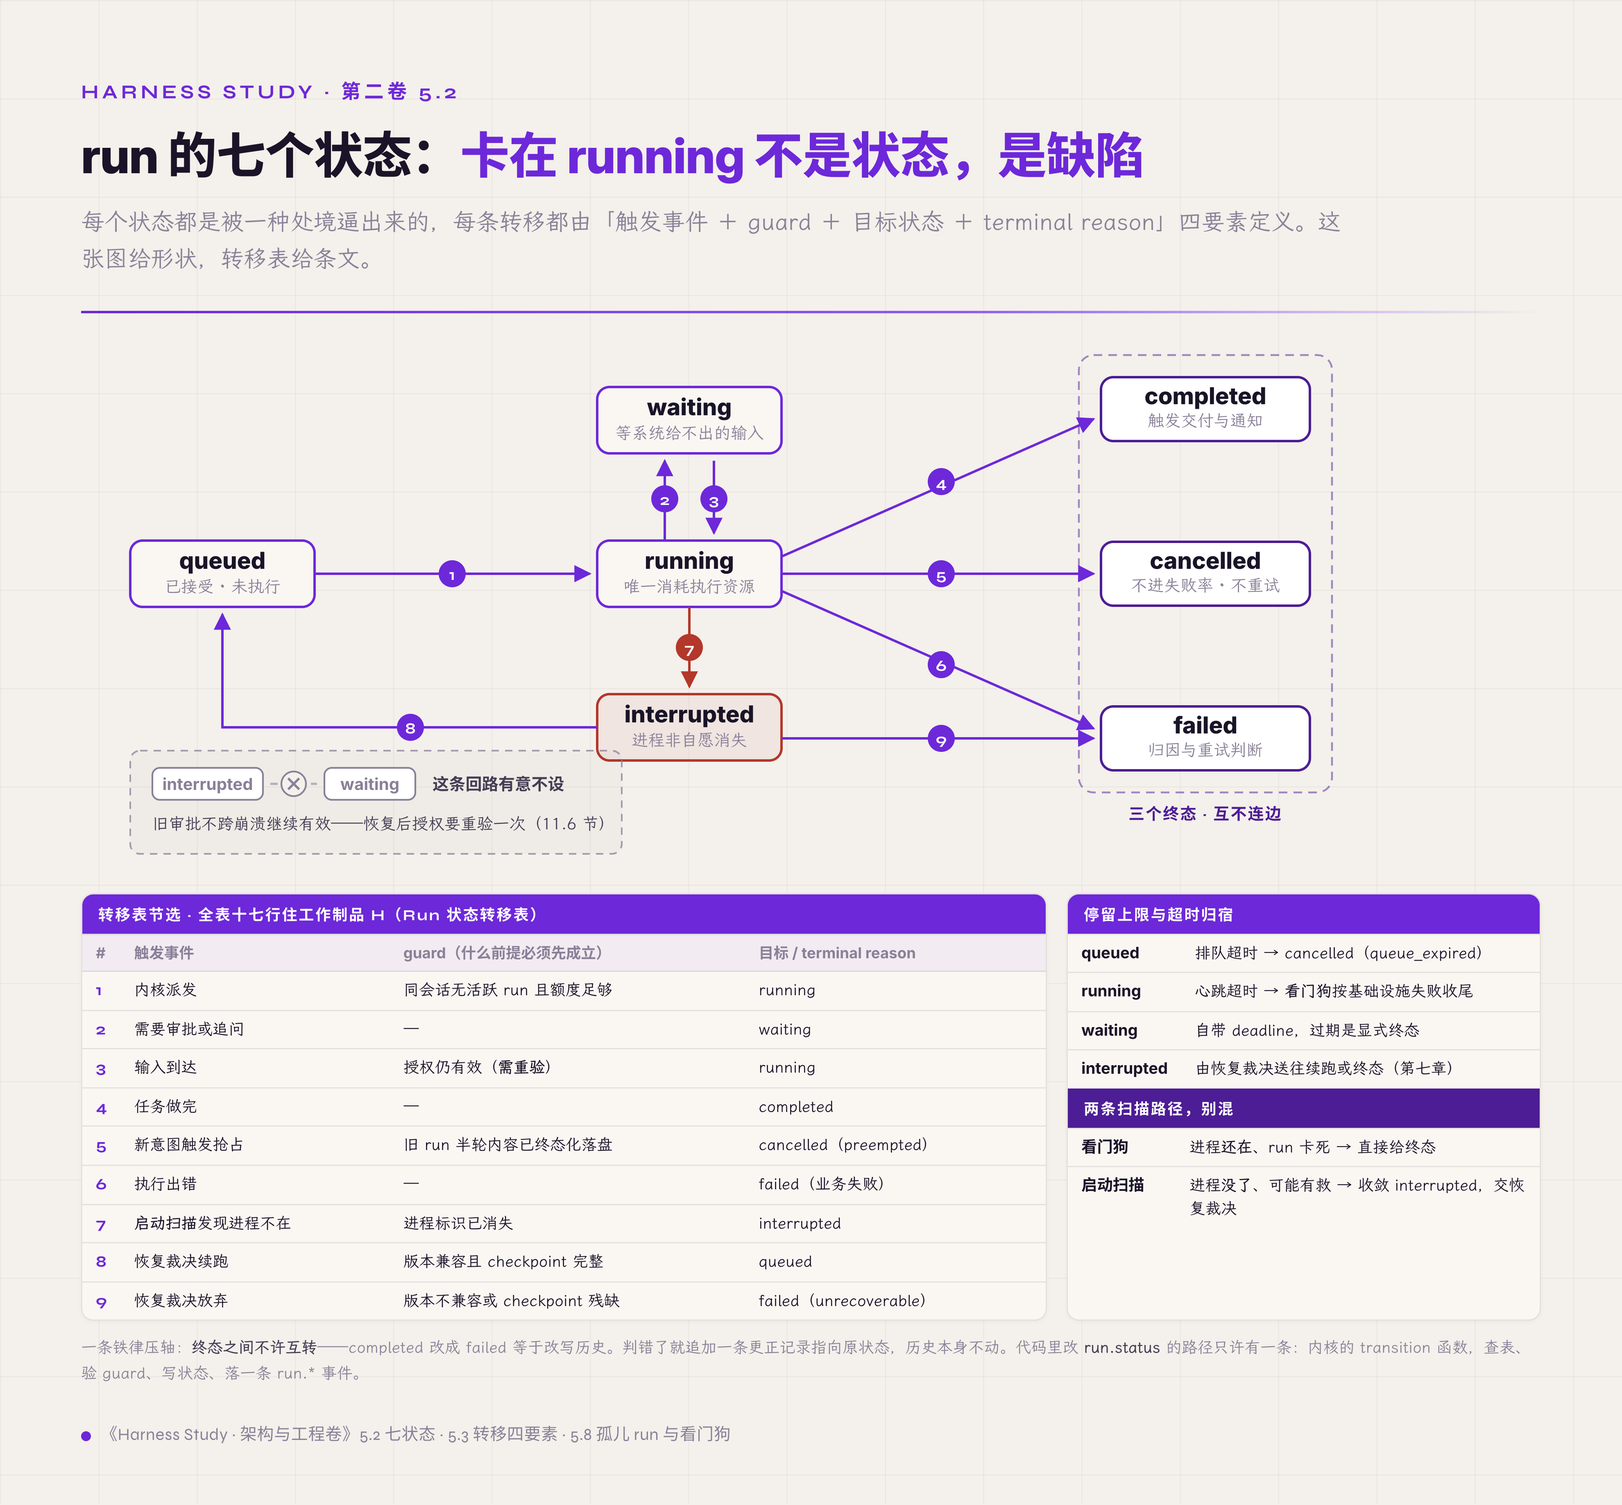
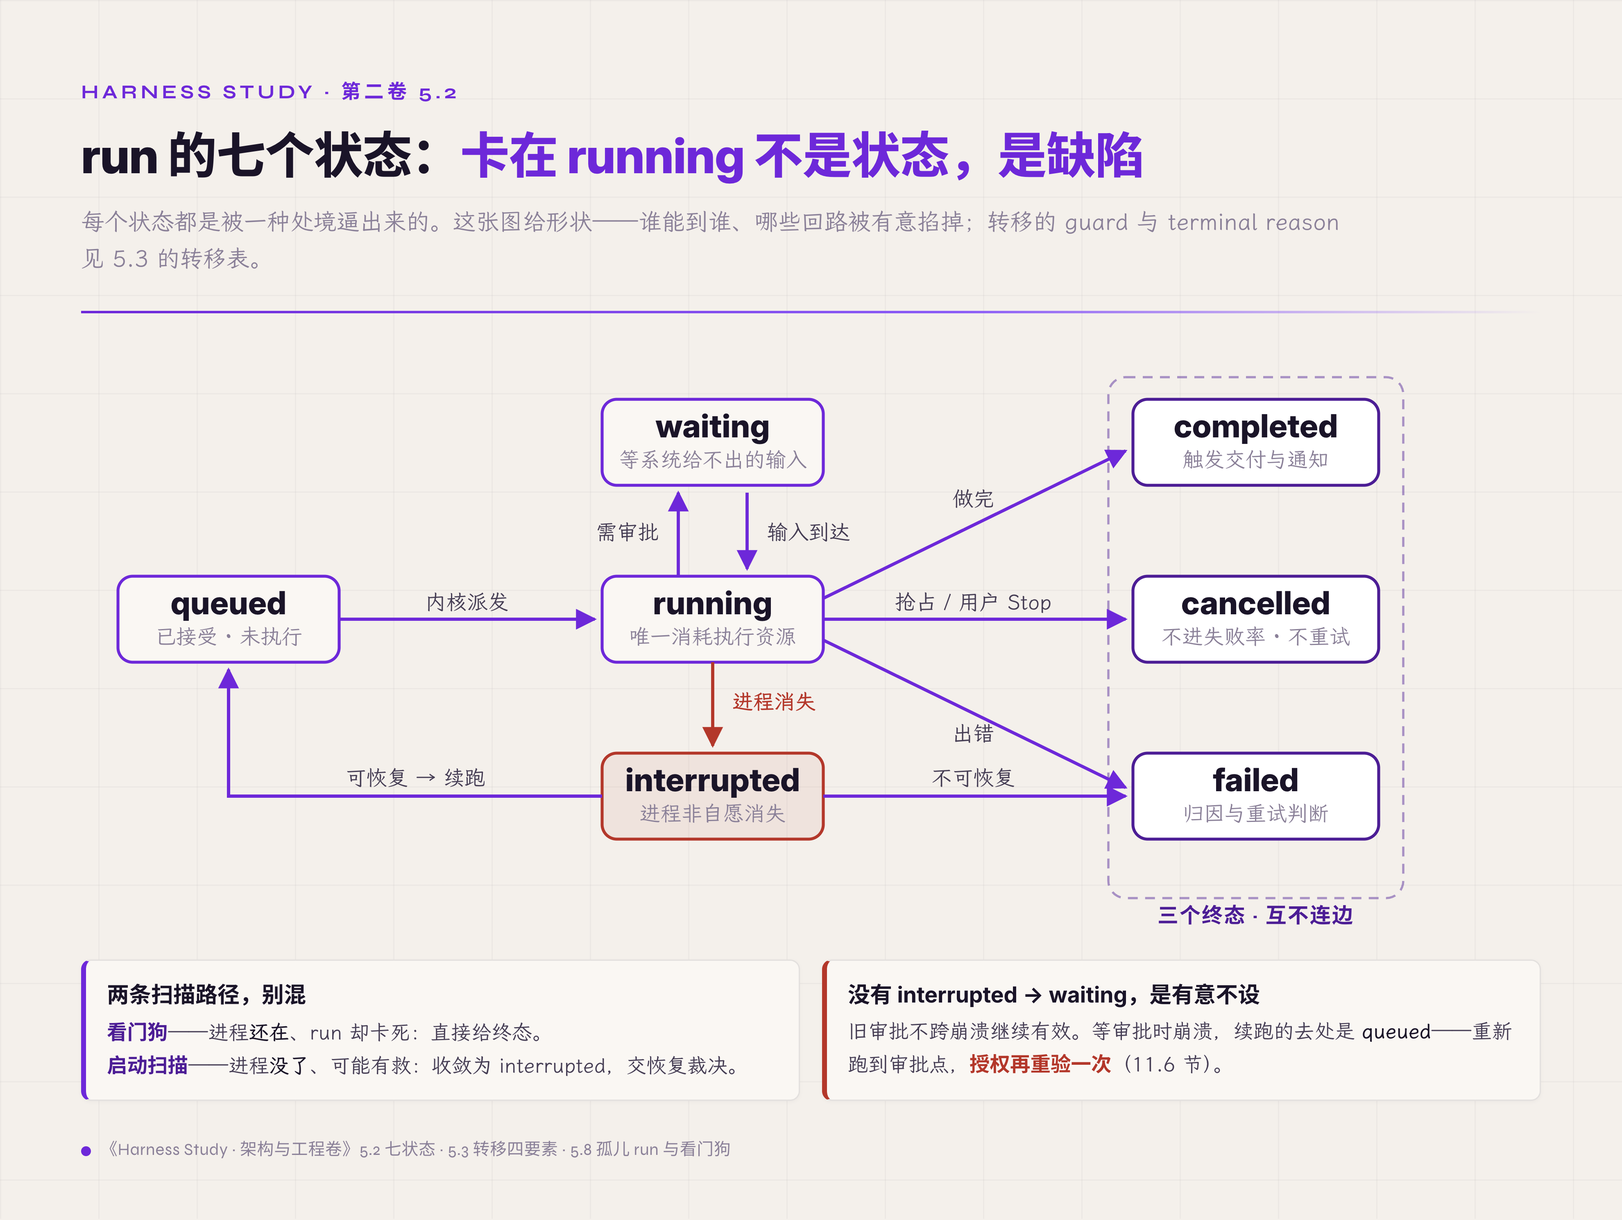
feat(volume2): 第五章接入首张配图，端到端验证配图管线
管线补一处路径重写：正文按 markdown 直读写 figures/…，book.html 生成在
pdf-build/ 下差一层目录，在 make_book.py 里补回。

端到端验证通过：识别 1 图、图目录页自动出现、figures.json 编号与图注正
确、正文 182×137mm 就位、书签 277→278。

重做 5.2 状态机图并立密度基准：第一版做成 1:1、塞了两张图例表，印到
182mm 宽时图例只剩 5pt；且那两张表正文里本来就有（5.2 停留上限表在图正
上方、5.3 转移表节选在下一页），违反「表已经是图的不再画」。改为单一
archetype、宽高比 1.33:1，最小字 6.4pt（入门卷基准 5.8pt）。
换算基准 ×0.391（1320px 铺满 182mm）已写进 figures/README。

diff --git a/volume2/figures/t1-flow-5.2-run-states.html b/volume2/figures/t1-flow-5.2-run-states.html
@@ -1,164 +1,115 @@
 <!DOCTYPE html><html lang="zh-CN"><head><meta charset="UTF-8">
 <link rel="stylesheet" href="_base.css">
 <style>
-  .stage{margin-top:20px}
+  .stage{margin-top:26px}
   svg{display:block;width:100%;height:auto}
-  .nb{fill:var(--card);stroke:var(--purple);stroke-width:2}
-  .nb-term{fill:#fff;stroke:var(--purple-dark);stroke-width:2}
-  .nb-bad{fill:rgba(179,55,42,.06);stroke:var(--red);stroke-width:2}
-  .nt{font-family:var(--f-head);font-size:19px;font-weight:800;fill:var(--t1)}
-  .ns{font-family:var(--f-body);font-size:13.4px;fill:var(--t3)}
-  .ed{stroke:var(--purple);stroke-width:2;fill:none;marker-end:url(#ah)}
-  .ed-b{stroke:var(--red);stroke-width:2;fill:none;marker-end:url(#ahr)}
-  .ed-x{stroke:var(--t3);stroke-width:1.8;fill:none;stroke-dasharray:6 5;opacity:.55}
-  .gb{fill:none;stroke:var(--purple-dark);stroke-width:1.5;stroke-dasharray:7 5;opacity:.5}
-  .gl{font-family:var(--f-label);font-size:13px;font-weight:700;fill:var(--purple-dark);letter-spacing:.08em}
-  .nm{fill:var(--purple)}
-  .nmt{font-family:var(--f-label);font-size:12.6px;font-weight:700;fill:#fff}
-  .cal{fill:rgba(26,20,40,.03);stroke:var(--t3);stroke-width:1.4;stroke-dasharray:6 5;opacity:.75}
-  .calt{font-family:var(--f-body);font-size:13.2px;fill:var(--t2)}
-  .calh{font-family:var(--f-head);font-size:13.4px;font-weight:700;fill:var(--t2)}
+  .nb{fill:var(--card);stroke:var(--purple);stroke-width:2.4}
+  .nb-term{fill:#fff;stroke:var(--purple-dark);stroke-width:2.4}
+  .nb-bad{fill:rgba(179,55,42,.07);stroke:var(--red);stroke-width:2.4}
+  .nt{font-family:var(--f-head);font-size:26px;font-weight:800;fill:var(--t1)}
+  .ns{font-family:var(--f-body);font-size:17px;fill:var(--t3)}
+  .ed{stroke:var(--purple);stroke-width:2.6;fill:none;marker-end:url(#ah)}
+  .ed-b{stroke:var(--red);stroke-width:2.6;fill:none;marker-end:url(#ahr)}
+  .el{font-family:var(--f-body);font-size:17px;fill:var(--t2)}
+  .el-b{font-family:var(--f-body);font-size:17px;fill:var(--red);font-weight:700}
+  .gb{fill:none;stroke:var(--purple-dark);stroke-width:1.8;stroke-dasharray:8 6;opacity:.45}
+  .gl{font-family:var(--f-label);font-size:17px;font-weight:700;fill:var(--purple-dark);letter-spacing:.06em}
 
-  .cols{display:flex;gap:16px;margin-top:20px}
-  .card{flex:1;border:1px solid var(--divider);border-radius:var(--radius);background:var(--card);
-    overflow:hidden;box-shadow:var(--shadow)}
-  .ch{font-family:var(--f-label);font-size:12.4px;font-weight:700;color:#fff;background:var(--purple);
-    letter-spacing:.1em;padding:7px 13px}
-  table{width:100%;border-collapse:collapse;font-size:12.8px}
-  td,th{padding:6px 11px;border-top:1px solid var(--divider);text-align:left;line-height:1.45;vertical-align:top}
-  th{font-family:var(--f-head);font-size:12.2px;font-weight:700;color:var(--t3);background:var(--purple-muted)}
-  td:first-child{font-family:var(--f-label);font-weight:700;color:var(--purple);width:26px}
-  .tw td:first-child{width:88px;font-family:var(--f-head);color:var(--t1)}
-  td b{color:var(--t1)}
-  .note{margin-top:12px;font-size:12.8px;color:var(--t3);line-height:1.6}
-  .note b{color:var(--t2)}
+  .notes{display:flex;gap:18px;margin-top:24px}
+  .nc{flex:1;border:1px solid var(--divider);border-left:4px solid var(--purple);
+    border-radius:8px;background:var(--card);padding:13px 17px;box-shadow:var(--shadow)}
+  .nc.warn{border-left-color:var(--red)}
+  .nc h4{font-family:var(--f-head);font-size:18px;font-weight:700;color:var(--t1);margin-bottom:6px}
+  .nc p{font-family:var(--f-body);font-size:16.5px;color:var(--t2);line-height:1.62}
+  .nc b{color:var(--t1)}
+  .nc .k{font-family:var(--f-head);font-weight:700;color:var(--purple-dark)}
+  .nc.warn .k{color:var(--red)}
 </style></head>
 <body><div class="canvas"><div class="grid-bg"></div><div class="inner">
   <span class="label-type">Harness Study · 第二卷 5.2</span>
   <h1>run 的七个状态：<span class="em">卡在 running 不是状态，是缺陷</span></h1>
-  <div class="sub">每个状态都是被一种处境逼出来的，每条转移都由「触发事件 ＋ guard ＋ 目标状态 ＋ terminal reason」四要素定义。这张图给形状，转移表给条文。</div>
+  <div class="sub">每个状态都是被一种处境逼出来的。这张图给形状——谁能到谁、哪些回路被有意掐掉；转移的 guard 与 terminal reason 见 5.3 的转移表。</div>
   <hr class="rule">
 
   <div class="stage">
-  <svg viewBox="0 0 1188 432" xmlns="http://www.w3.org/2000/svg">
+  <svg viewBox="0 0 1188 476" xmlns="http://www.w3.org/2000/svg">
     <defs>
-      <marker id="ah" viewBox="0 0 10 10" refX="9" refY="5" markerWidth="7" markerHeight="7" orient="auto-start-reverse">
+      <marker id="ah" viewBox="0 0 10 10" refX="9" refY="5" markerWidth="6.5" markerHeight="6.5" orient="auto-start-reverse">
         <path d="M0,0 L10,5 L0,10 z" fill="#6d28d9"/></marker>
-      <marker id="ahr" viewBox="0 0 10 10" refX="9" refY="5" markerWidth="7" markerHeight="7" orient="auto-start-reverse">
+      <marker id="ahr" viewBox="0 0 10 10" refX="9" refY="5" markerWidth="6.5" markerHeight="6.5" orient="auto-start-reverse">
         <path d="M0,0 L10,5 L0,10 z" fill="#b3372a"/></marker>
     </defs>
 
-    <!-- 终态组框 -->
-    <rect class="gb" x="812" y="14" width="206" height="356" rx="12"/>
-    <text class="gl" x="915" y="392" text-anchor="middle">三个终态 · 互不连边</text>
+    <rect class="gb" x="836" y="26" width="240" height="424" rx="14"/>
+    <text class="gl" x="956" y="470" text-anchor="middle">三个终态 · 互不连边</text>
 
     <!-- 节点 -->
-    <g><rect class="nb" x="40" y="165" width="150" height="54" rx="10"/>
-      <text class="nt" x="115" y="188" text-anchor="middle">queued</text>
-      <text class="ns" x="115" y="207" text-anchor="middle">已接受 · 未执行</text></g>
+    <g><rect class="nb" x="30" y="188" width="180" height="70" rx="12"/>
+      <text class="nt" x="120" y="219" text-anchor="middle">queued</text>
+      <text class="ns" x="120" y="243" text-anchor="middle">已接受 · 未执行</text></g>
 
-    <g><rect class="nb" x="420" y="40" width="150" height="54" rx="10"/>
-      <text class="nt" x="495" y="63" text-anchor="middle">waiting</text>
-      <text class="ns" x="495" y="82" text-anchor="middle">等系统给不出的输入</text></g>
+    <g><rect class="nb" x="424" y="44" width="180" height="70" rx="12"/>
+      <text class="nt" x="514" y="75" text-anchor="middle">waiting</text>
+      <text class="ns" x="514" y="99" text-anchor="middle">等系统给不出的输入</text></g>
 
-    <g><rect class="nb" x="420" y="165" width="150" height="54" rx="10"/>
-      <text class="nt" x="495" y="188" text-anchor="middle">running</text>
-      <text class="ns" x="495" y="207" text-anchor="middle">唯一消耗执行资源</text></g>
+    <g><rect class="nb" x="424" y="188" width="180" height="70" rx="12"/>
+      <text class="nt" x="514" y="219" text-anchor="middle">running</text>
+      <text class="ns" x="514" y="243" text-anchor="middle">唯一消耗执行资源</text></g>
 
-    <g><rect class="nb-bad" x="420" y="290" width="150" height="54" rx="10"/>
-      <text class="nt" x="495" y="313" text-anchor="middle" fill="#b3372a">interrupted</text>
-      <text class="ns" x="495" y="332" text-anchor="middle">进程非自愿消失</text></g>
+    <g><rect class="nb-bad" x="424" y="332" width="180" height="70" rx="12"/>
+      <text class="nt" x="514" y="363" text-anchor="middle" fill="#b3372a">interrupted</text>
+      <text class="ns" x="514" y="387" text-anchor="middle">进程非自愿消失</text></g>
 
-    <g><rect class="nb-term" x="830" y="32" width="170" height="52" rx="10"/>
-      <text class="nt" x="915" y="54" text-anchor="middle">completed</text>
-      <text class="ns" x="915" y="72" text-anchor="middle">触发交付与通知</text></g>
+    <g><rect class="nb-term" x="856" y="44" width="200" height="70" rx="12"/>
+      <text class="nt" x="956" y="75" text-anchor="middle">completed</text>
+      <text class="ns" x="956" y="99" text-anchor="middle">触发交付与通知</text></g>
 
-    <g><rect class="nb-term" x="830" y="166" width="170" height="52" rx="10"/>
-      <text class="nt" x="915" y="188" text-anchor="middle">cancelled</text>
-      <text class="ns" x="915" y="206" text-anchor="middle">不进失败率 · 不重试</text></g>
+    <g><rect class="nb-term" x="856" y="188" width="200" height="70" rx="12"/>
+      <text class="nt" x="956" y="219" text-anchor="middle">cancelled</text>
+      <text class="ns" x="956" y="243" text-anchor="middle">不进失败率 · 不重试</text></g>
 
-    <g><rect class="nb-term" x="830" y="300" width="170" height="52" rx="10"/>
-      <text class="nt" x="915" y="322" text-anchor="middle">failed</text>
-      <text class="ns" x="915" y="340" text-anchor="middle">归因与重试判断</text></g>
+    <g><rect class="nb-term" x="856" y="332" width="200" height="70" rx="12"/>
+      <text class="nt" x="956" y="363" text-anchor="middle">failed</text>
+      <text class="ns" x="956" y="387" text-anchor="middle">归因与重试判断</text></g>
 
-    <!-- 转移边 -->
-    <path class="ed" d="M190,192 L414,192"/>
-    <path class="ed" d="M475,165 L475,100"/>
-    <path class="ed" d="M515,100 L515,159"/>
-    <path class="ed" d="M570,178 L824,66"/>
-    <path class="ed" d="M570,192 L824,192"/>
-    <path class="ed" d="M570,206 L824,318"/>
-    <path class="ed-b" d="M495,219 L495,284"/>
-    <path class="ed" d="M420,317 L115,317 L115,225"/>
-    <path class="ed" d="M570,326 L824,326"/>
+    <!-- 边 -->
+    <path class="ed" d="M210,223 L418,223"/>
+    <text class="el" x="314" y="215" text-anchor="middle">内核派发</text>
 
-    <!-- 边号 -->
-    <g><circle class="nm" cx="302" cy="192" r="11"/><text class="nmt" x="302" y="197" text-anchor="middle">1</text></g>
-    <g><circle class="nm" cx="475" cy="131" r="11"/><text class="nmt" x="475" y="136" text-anchor="middle">2</text></g>
-    <g><circle class="nm" cx="515" cy="131" r="11"/><text class="nmt" x="515" y="136" text-anchor="middle">3</text></g>
-    <g><circle class="nm" cx="700" cy="117" r="11"/><text class="nmt" x="700" y="122" text-anchor="middle">4</text></g>
-    <g><circle class="nm" cx="700" cy="192" r="11"/><text class="nmt" x="700" y="197" text-anchor="middle">5</text></g>
-    <g><circle class="nm" cx="700" cy="266" r="11"/><text class="nmt" x="700" y="271" text-anchor="middle">6</text></g>
-    <g><circle cx="495" cy="252" r="11" fill="#b3372a"/><text class="nmt" x="495" y="257" text-anchor="middle">7</text></g>
-    <g><circle class="nm" cx="268" cy="317" r="11"/><text class="nmt" x="268" y="322" text-anchor="middle">8</text></g>
-    <g><circle class="nm" cx="700" cy="326" r="11"/><text class="nmt" x="700" y="331" text-anchor="middle">9</text></g>
+    <path class="ed" d="M486,188 L486,120"/>
+    <text class="el" x="470" y="158" text-anchor="end">需审批</text>
+    <path class="ed" d="M542,120 L542,182"/>
+    <text class="el" x="558" y="158">输入到达</text>
 
-    <!-- 有意不设 callout（含自足小示意，不画进主图以免与边 1 交叠） -->
-    <rect class="cal" x="40" y="336" width="400" height="84" rx="8"/>
-    <g>
-      <rect x="58" y="350" width="90" height="26" rx="6" fill="#fff" stroke="#8a8098" stroke-width="1.4"/>
-      <text x="103" y="368" text-anchor="middle" font-family="Inter,sans-serif" font-size="13.4" font-weight="700" fill="#8a8098">interrupted</text>
-      <path class="ed-x" d="M154,363 L192,363"/>
-      <circle cx="173" cy="363" r="10" fill="#f4f0eb" stroke="#8a8098" stroke-width="1.4"/>
-      <path d="M168.5,358.5 L177.5,367.5 M177.5,358.5 L168.5,367.5" stroke="#8a8098" stroke-width="1.8"/>
-      <rect x="198" y="350" width="74" height="26" rx="6" fill="#fff" stroke="#8a8098" stroke-width="1.4"/>
-      <text x="235" y="368" text-anchor="middle" font-family="Inter,sans-serif" font-size="13.4" font-weight="700" fill="#8a8098">waiting</text>
-      <text class="calh" x="286" y="368">这条回路有意不设</text>
-    </g>
-    <text class="calt" x="58" y="400">旧审批不跨崩溃继续有效——恢复后授权要重验一次（11.6 节）</text>
+    <path class="ed" d="M604,206 L850,86"/>
+    <text class="el" x="726" y="131" text-anchor="middle">做完</text>
+    <path class="ed" d="M604,223 L850,223"/>
+    <text class="el" x="726" y="215" text-anchor="middle">抢占 / 用户 Stop</text>
+    <path class="ed" d="M604,240 L850,360"/>
+    <text class="el" x="726" y="322" text-anchor="middle">出错</text>
+
+    <path class="ed-b" d="M514,258 L514,326"/>
+    <text class="el-b" x="530" y="296">进程消失</text>
+
+    <path class="ed" d="M424,367 L120,367 L120,264"/>
+    <text class="el" x="272" y="358" text-anchor="middle">可恢复 → 续跑</text>
+
+    <path class="ed" d="M604,367 L850,367"/>
+    <text class="el" x="726" y="358" text-anchor="middle">不可恢复</text>
   </svg>
   </div>
 
-  <div class="cols">
-    <div class="card">
-      <div class="ch">转移表节选 · 全表十七行住工作制品 H（Run 状态转移表）</div>
-      <table>
-        <thead><tr><th>#</th><th>触发事件</th><th>guard（什么前提必须先成立）</th><th>目标 / terminal reason</th></tr></thead>
-        <tbody>
-          <tr><td>1</td><td>内核派发</td><td>同会话无活跃 run 且额度足够</td><td>running</td></tr>
-          <tr><td>2</td><td>需要审批或追问</td><td>—</td><td>waiting</td></tr>
-          <tr><td>3</td><td>输入到达</td><td>授权仍有效（<b>需重验</b>）</td><td>running</td></tr>
-          <tr><td>4</td><td>任务做完</td><td>—</td><td>completed</td></tr>
-          <tr><td>5</td><td>新意图触发抢占</td><td>旧 run 半轮内容已终态化落盘</td><td>cancelled（preempted）</td></tr>
-          <tr><td>6</td><td>执行出错</td><td>—</td><td>failed（业务失败）</td></tr>
-          <tr><td>7</td><td><b>启动扫描</b>发现进程不在</td><td>进程标识已消失</td><td>interrupted</td></tr>
-          <tr><td>8</td><td>恢复裁决续跑</td><td>版本兼容且 checkpoint 完整</td><td>queued</td></tr>
-          <tr><td>9</td><td>恢复裁决放弃</td><td>版本不兼容或 checkpoint 残缺</td><td>failed（unrecoverable）</td></tr>
-        </tbody>
-      </table>
+  <div class="notes">
+    <div class="nc">
+      <h4>两条扫描路径，别混</h4>
+      <p><span class="k">看门狗</span>——进程<b>还在</b>、run 却卡死：直接给终态。<br>
+         <span class="k">启动扫描</span>——进程<b>没了</b>、可能有救：收敛为 interrupted，交恢复裁决。</p>
     </div>
-
-    <div class="card" style="flex:0 0 386px">
-      <div class="ch">停留上限与超时归宿</div>
-      <table class="tw">
-        <tbody>
-          <tr><td>queued</td><td>排队超时 → cancelled（queue_expired）</td></tr>
-          <tr><td>running</td><td>心跳超时 → <b>看门狗</b>按基础设施失败收尾</td></tr>
-          <tr><td>waiting</td><td>自带 deadline，过期是显式终态</td></tr>
-          <tr><td>interrupted</td><td>由恢复裁决送往续跑或终态（第七章）</td></tr>
-        </tbody>
-      </table>
-      <div class="ch" style="background:var(--purple-dark)">两条扫描路径，别混</div>
-      <table class="tw">
-        <tbody>
-          <tr><td>看门狗</td><td>进程<b>还在</b>、run 卡死 → 直接给终态</td></tr>
-          <tr><td>启动扫描</td><td>进程<b>没了</b>、可能有救 → 收敛 interrupted，交恢复裁决</td></tr>
-        </tbody>
-      </table>
+    <div class="nc warn">
+      <h4>没有 interrupted → waiting，是有意不设</h4>
+      <p>旧审批不跨崩溃继续有效。等审批时崩溃，续跑的去处是 <b>queued</b>——重新跑到审批点，<span class="k">授权再重验一次</span>（11.6 节）。</p>
     </div>
   </div>
-
-  <div class="note">一条铁律压轴：<b>终态之间不许互转</b>——completed 改成 failed 等于改写历史。判错了就追加一条更正记录指向原状态，历史本身不动。代码里改 <b>run.status</b> 的路径只许有一条：内核的 transition 函数，查表、验 guard、写状态、落一条 run.* 事件。</div>
 
   <div class="foot">
     <div><span class="dot"></span>《Harness Study · 架构与工程卷》5.2 七状态 · 5.3 转移四要素 · 5.8 孤儿 run 与看门狗</div>

diff --git a/volume2/pdf-build/make_book.py b/volume2/pdf-build/make_book.py
@@ -139,7 +139,9 @@ for i, f in enumerate(files, 1):
         input=md, capture_output=True, text=True, encoding="utf-8", cwd=str(SRC))
     if r.returncode != 0:
         sys.stderr.write(f"[pandoc fail] {f.name}: {r.stderr[:300]}\n"); sys.exit(1)
-    body = FIG_RE.sub(fig_sub, r.stdout)
+    # 正文按 markdown 直读的相对路径写图（figures/…），而 book.html 生成在 pdf-build/ 下，
+    # 差一层目录——在这里补回来。
+    body = FIG_RE.sub(fig_sub, r.stdout.replace('src="figures/', 'src="../figures/'))
     frags.append(f'<section id="ch{i}" class="chapter">{body}</section>')
     pg = str(pages[i - 1]) if pages and i - 1 < len(pages) else ""
     toc.append(f'<li><a href="#ch{i}"><span class="ti">{html.escape(toc_title(title))}</span>'

diff --git a/volume2/figures/README.md b/volume2/figures/README.md
@@ -34,7 +34,13 @@ cp t1-flow-5.2-run-states.html t1-<型>-<节>-<slug>.html
 
 ## 硬约束
 
-- **成品有效宽度上限 182mm**（A4 版心）。超宽会触发 Chromium 打印缩放、把整本书等比缩小——第二卷已因宽表踩过一次（正文 14pt 被渲成 9.3pt）。按 1320px 画布出图，印刷宽定 182mm，高度换算：`高(mm) = 图高px / 图宽px × 182`。三张样板分别是 136mm ／ 169mm ／ 168mm，单页放得下。
+- **成品有效宽度上限 182mm**（A4 版心）。超宽会触发 Chromium 打印缩放、把整本书等比缩小——第二卷已因宽表踩过一次（正文 14pt 被渲成 9.3pt）。按 1320px 画布出图，印刷宽定 182mm，高度换算：`高(mm) = 图高px / 图宽px × 182`。
+
+- **画布 px → 印刷 pt 的换算是 ×0.391**（1320px 铺满 182mm）。所以图里 16px 的字，印出来只有 6.3pt——比正文 14pt 小一半还多。**图内最小字号不低于 16px**（≈6.3pt），核心标签给到 26px（≈10pt）。入门卷的基准是卡片正文约 14.8px ≈ 5.8pt，可以对标但不要更小。
+
+- **图要扁，不要方**。入门卷的图宽高比约 2:1，一屏只放一个 archetype，所以每个元素在纸上够大。第一版 5.2 做成 1:1、塞了状态机加两张图例表，印出来图例只有 5pt——重做后砍掉图例表、宽高比收到 1.33:1，最小字回到 6.4pt。**判据：单张图承载一个 archetype，不叠加。**
+
+- **不要把正文已有的表搬进图**。5.2 第一版的两张图例表，一张就在图的正上方（5.2 停留上限表）、一张在下一页（5.3 转移表节选）——既挤小了图，又违反 PLAN 里「表已经是图的不再画」。图只画正文没有的那一层（形状、方向、时序）。
 - **信息忠于原文**。每个信息点要能在正文指出行号，见 PLAN 各条的"信息点"。图文不符是入门卷上一版翻车的原因。
 - **脱敏**：三个匿名系统是三个不同项目，不得混为一谈——配套实现项目（Rust harness）／桌面案例项目（TypeScript 桌面 agent）／配套中继服务（TS relay）。公开产品照实具名。
 
